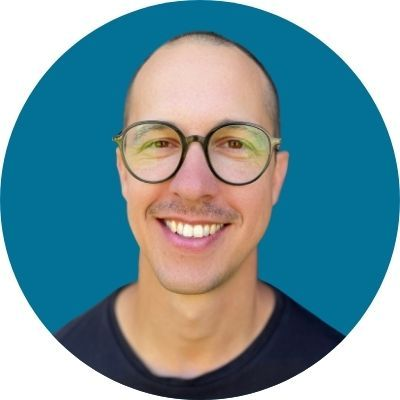
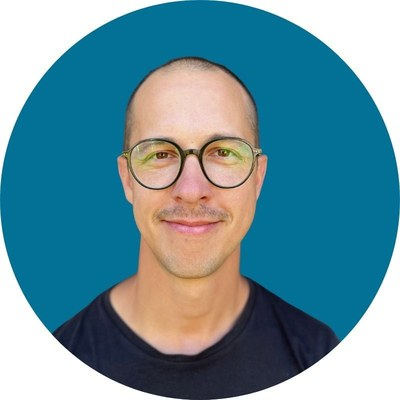
Ny profilbild i två storlekar, koppla Person.image till 800px
- erik-800.jpg: rensad från identifierande XMP-metadata (namn, Facebook-ID,
  Canva-ID:n) utan omkomprimering (samma kvantiseringstabeller/subsampling
  som originalet, bara EXIF/XMP borttaget)
- erik-400.jpg: genererad på nytt från den rensade 800px-versionen
  (Pillow, LANCZOS, quality=88, ingen EXIF skriven)
- index.html: JSON-LD Person.image uppdaterad till erik-800.jpg
  (img-taggarna på sidan fortsätter peka på erik-400.jpg, oförändrat)

diff --git a/index.html b/index.html
@@ -30,7 +30,7 @@
   "jobTitle": "Forskare",
   "url": "https://enkelai.net/",
   "description": "Forskare som skriver om AI i arbetslivet, konkret och på svenska.",
-  "image": "https://enkelai.net/images/erik-400.jpg",
+  "image": "https://enkelai.net/images/erik-800.jpg",
   "sameAs": [
     "https://www.linkedin.com/in/erikklint/",
     "https://scholar.google.com/citations?user=7lnh6JIAAAAJ&hl=sv&oi=ao"
